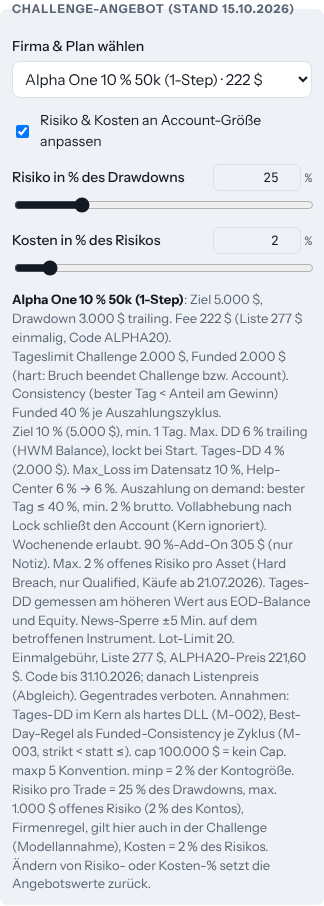
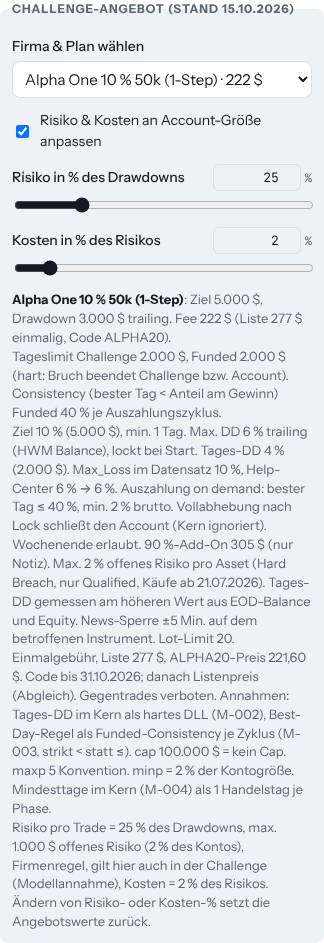
M-007a: auf M-004 angepasst (Tage-Felder, unerreichbare Gewinntag-Schwelle als notTradable)
Claude-Session: https://claude.ai/code/session_011P9X2prFLQan8Kx41Y6KAM

diff --git a/test/params.test.js b/test/params.test.js
@@ -38,6 +38,26 @@ test('2. dll- und cons-Felder kommen an', () => {
   assert.ok(lu.dllFunded > 0 && lu.dllScaleFunded > 0 && lu.consFunded > 0);
 });
 
+test('M-004: Tage-Felder kommen über die generische Übernahme an (applyOffer und read)', () => {
+  const keys = ['evalMinDays', 'evalWinDays', 'evalWinDayMin', 'payMinDays', 'payWinDays', 'payWinDayMin'];
+  const withDays = ALL.filter(o => keys.some(k => o[k] > 0));
+  assert.ok(withDays.length > 0);
+  for (const o of ALL) {
+    const P = autoParams(o, STRAT), R = autoParams(o, uiOf(P));
+    for (const k of keys) { assert.strictEqual(P[k], o[k], o.id + ' ' + k); assert.strictEqual(R[k], o[k], o.id + ' read ' + k); }
+    assert.ok(!('daysCompliant' in R), o.id);
+  }
+});
+
+test('M-004: unerreichbare Gewinntag-Schwelle ergibt notTradable statt Absturz', () => {
+  const o = { ...byId('af-zero-25'), evalWinDays: 2, evalWinDayMin: 200 };
+  const P = autoParams(o, { ...STRAT, riskPct: 5 }); // 50 $ × 1,5 − 1 $ = 74 $ < 200 $
+  assert.strictEqual(P.notTradable, true); assert.ok(/200 \$.*74 \$/.test(P.reason));
+  assert.throws(() => prepare(P));
+  const ok = autoParams(o, { ...STRAT, riskPct: 5, tradesPerDay: 3 }); // 3 × 74 $ = 222 $
+  assert.ok(!ok.notTradable); prepare(ok);
+});
+
 test('3. Instant-Ziele sind 0', () => {
   const inst = ALL.filter(o => o.mode === 'instant');
   assert.ok(inst.length > 0);

diff --git a/index.html b/index.html
@@ -134,7 +134,7 @@
         <p class="note">Spaltenkopf anklicken sortiert, noch einmal klicken dreht die Richtung. Die ersten 12 Accounts (▸) lassen sich aufklappen: Tage je Phase und Tages-P&amp;L. Ein Account mit verlorener Challenge steht mit Gegentrade nahe null, weil das Echtgeld-Konto die Fee zurückholt. Dafür kostet der Gegentrade bei jedem bestandenen Account echtes Geld. In der Summe gleicht sich das aus, bis auf die zusätzlichen Spread-Kosten.</p>
       </div>
 
-      <div class="warn">Modell, kein Handelssystem: Die Kurse sind zufällig (Trefferquote und CRV), Drawdown wird pro Trade geprüft. Daily Loss Limit und Consistency-Regeln der Angebote sind abgebildet, Gewinntage, Mindesttage, Auszahlungsrhythmen und Slippage nicht. Gegenpositionen über Konten verbieten alle hier simulierten Firmen. Bei Verstoß fallen Payouts weg.</div>
+      <div class="warn">Modell, kein Handelssystem: Die Kurse sind zufällig (Trefferquote und CRV), Drawdown wird pro Trade geprüft. Daily Loss Limit, Consistency, Gewinntage und Mindesttage der Angebote sind abgebildet, Auszahlungsrhythmen und Slippage nicht. Gegenpositionen über Konten verbieten alle hier simulierten Firmen. Bei Verstoß fallen Payouts weg.</div>
     </div>
   </div>
 </div>

diff --git a/js/params.js b/js/params.js
@@ -63,6 +63,16 @@
         P.reason=`Risiko + Kosten (${P.risk+P.cost} $) erreichen das Tageslimit (${lim} $). Kein Trade möglich. Risiko senken oder „Risiko & Kosten anpassen“ einschalten.`;
       }
     }
+    // Gewinntage (M-004): Schwelle, die selbst ein Tag nur mit Gewinn-Trades nicht erreicht, prüft prepare() ebenfalls
+    if(!P.notTradable && P.rr!==undefined){
+      const dayMax=(P.tradesPerDay||1)*(P.risk*P.rr-P.cost);
+      const miss=(n,x)=>n>0 && !(x>0 ? dayMax>=x : dayMax>0);
+      const x=P.mode==='challenge' && miss(P.evalWinDays,P.evalWinDayMin) ? P.evalWinDayMin : miss(P.payWinDays,P.payWinDayMin) ? P.payWinDayMin : null;
+      if(x!==null){
+        P.notTradable=true;
+        P.reason=`Gewinntag-Schwelle (${x} $) nicht erreichbar: höchster Tagesgewinn = Trades pro Tag × (Risiko × CRV − Kosten) = ${Math.round(dayMax*100)/100} $. Risiko oder Trades pro Tag erhöhen.`;
+      }
+    }
     return P;
   }
 
